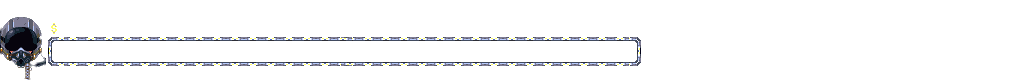
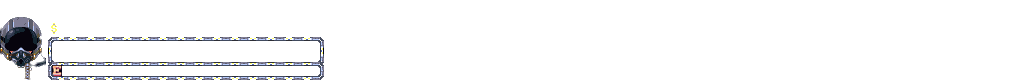
fundo compra

Changed region(s): [[0.0312, 0.7, 0.625, 1.0], [0.3125, 0.45, 0.625, 0.575]]

diff --git a/ROGUELIKE/src/Asteroides.java b/ROGUELIKE/src/Asteroides.java
@@ -80,10 +80,10 @@ public class Asteroides extends Personagem {
 			vivo = false;
 			if(recreate) {
 				if(rnd.nextInt(100)>60) {		
-					Item item = new Item(Constantes.goldImage,X+charset.getWidth()/2, Y+charset.getHeight()/2,rnd.nextInt(500), 0 ,100, 7, 38, 55, 30, true); 
+					Item item = new Item(Constantes.goldImage,X+charset.getWidth()/2, Y+charset.getHeight()/2,rnd.nextInt(500), 0 ,100, 7, 38, 55, 60, true); 
 					CanvasMain.listaDeItens.add(item);
 				}else if(rnd.nextInt(100)>72) {
-					Item item = new Item(Constantes.lifeImage,X+charset.getWidth()/2, Y+charset.getHeight()/2,0, rnd.nextInt(500),100, 1, 44, 44, 50, false);
+					Item item = new Item(Constantes.lifeImage,X+charset.getWidth()/2, Y+charset.getHeight()/2,0, rnd.nextInt(500),100, 1, 44, 44, 60, false);
 					CanvasMain.listaDeItens.add(item);
 				}
 				for(int i = 0; i < 20;i++){

diff --git a/ROGUELIKE/src/CanvasMain.java b/ROGUELIKE/src/CanvasMain.java
@@ -324,8 +324,8 @@ public class CanvasMain extends MyCanvas {
 		//Font f = dbg.getFont();
 		
 		//dbg.setFont(fonte);
-		//dbg.setColor(Color.YELLOW);	
-		//dbg.drawString("FPS: "+GamePanel.FPS, 10, 20);
+		dbg.setColor(Color.YELLOW);	
+		dbg.drawString("FPS: "+GamePanel.FPS,  Constantes.telaW-80, 12);
 		
 		//dbg.setFont(fonteMini);	
 	//	dbg.drawString("Velocidade", 10, Constantes.telaH-26);
@@ -337,9 +337,10 @@ public class CanvasMain extends MyCanvas {
 		
 		dbg.setColor(lifebarcolor);
 	
-		dbg.fillRect(51, 41, (int)(587*(Constantes.heroi.life/(float)Constantes.heroi.lifeMax)), 21);
+		dbg.fillRect(51, 41, (int)(270*(Constantes.heroi.life/(float)Constantes.heroi.lifeMax)), 21);
 
-	
+		dbg.setColor(Color.BLUE);
+		dbg.fillRect(51, 65, (int)(270*(Constantes.heroi.vel/(float)400)), 10);
 	
 		//dbg.drawString("Life", 105, Constantes.telaH-28);
 		

diff --git a/ROGUELIKE/src/Constantes.java b/ROGUELIKE/src/Constantes.java
@@ -38,6 +38,8 @@ public class Constantes {
 		goldImage = GamePanel.instance.carregaImagem("gold.png");
 		lifeImage = GamePanel.instance.carregaImagem("life.png");
 		hudImage = GamePanel.instance.carregaImagem("hud.png");
+		
+		fundohangar = GamePanel.instance.carregaImagem("fundohangar.png");
 	}
 
 	
@@ -47,7 +49,7 @@ public class Constantes {
 	public static BufferedImage goldImage;
 	public static BufferedImage lifeImage;
 	public static BufferedImage hudImage;
-
+	public static BufferedImage fundohangar;
 	
 
 }

diff --git a/ROGUELIKE/src/CanvasCostrucao.java b/ROGUELIKE/src/CanvasCostrucao.java
@@ -86,9 +86,9 @@ public class CanvasCostrucao extends MyCanvas {
 	@Override
 	public void DesenhaSe(Graphics2D dbg) {
 		// TODO Auto-generated method stub
-		dbg.setColor(cor);
-		dbg.fillRect(0, 0, Constantes.telaW, Constantes.telaH);
-
+		
+		dbg.drawImage(Constantes.fundohangar, 0, 0, null);
+	 
 		dbg.setColor(Color.white);
 		dbg.drawString("Clique nos icones para construção", 10, 10);
 

diff --git a/ROGUELIKE/src/Personagem.java b/ROGUELIKE/src/Personagem.java
@@ -17,7 +17,7 @@ public class Personagem extends Sprite {
 
 	double angulo = 0;
 	double vel = 0;
-
+	double velMax = 0;
 	int raio = 496;
 
 	int lifeMax = 1000;
